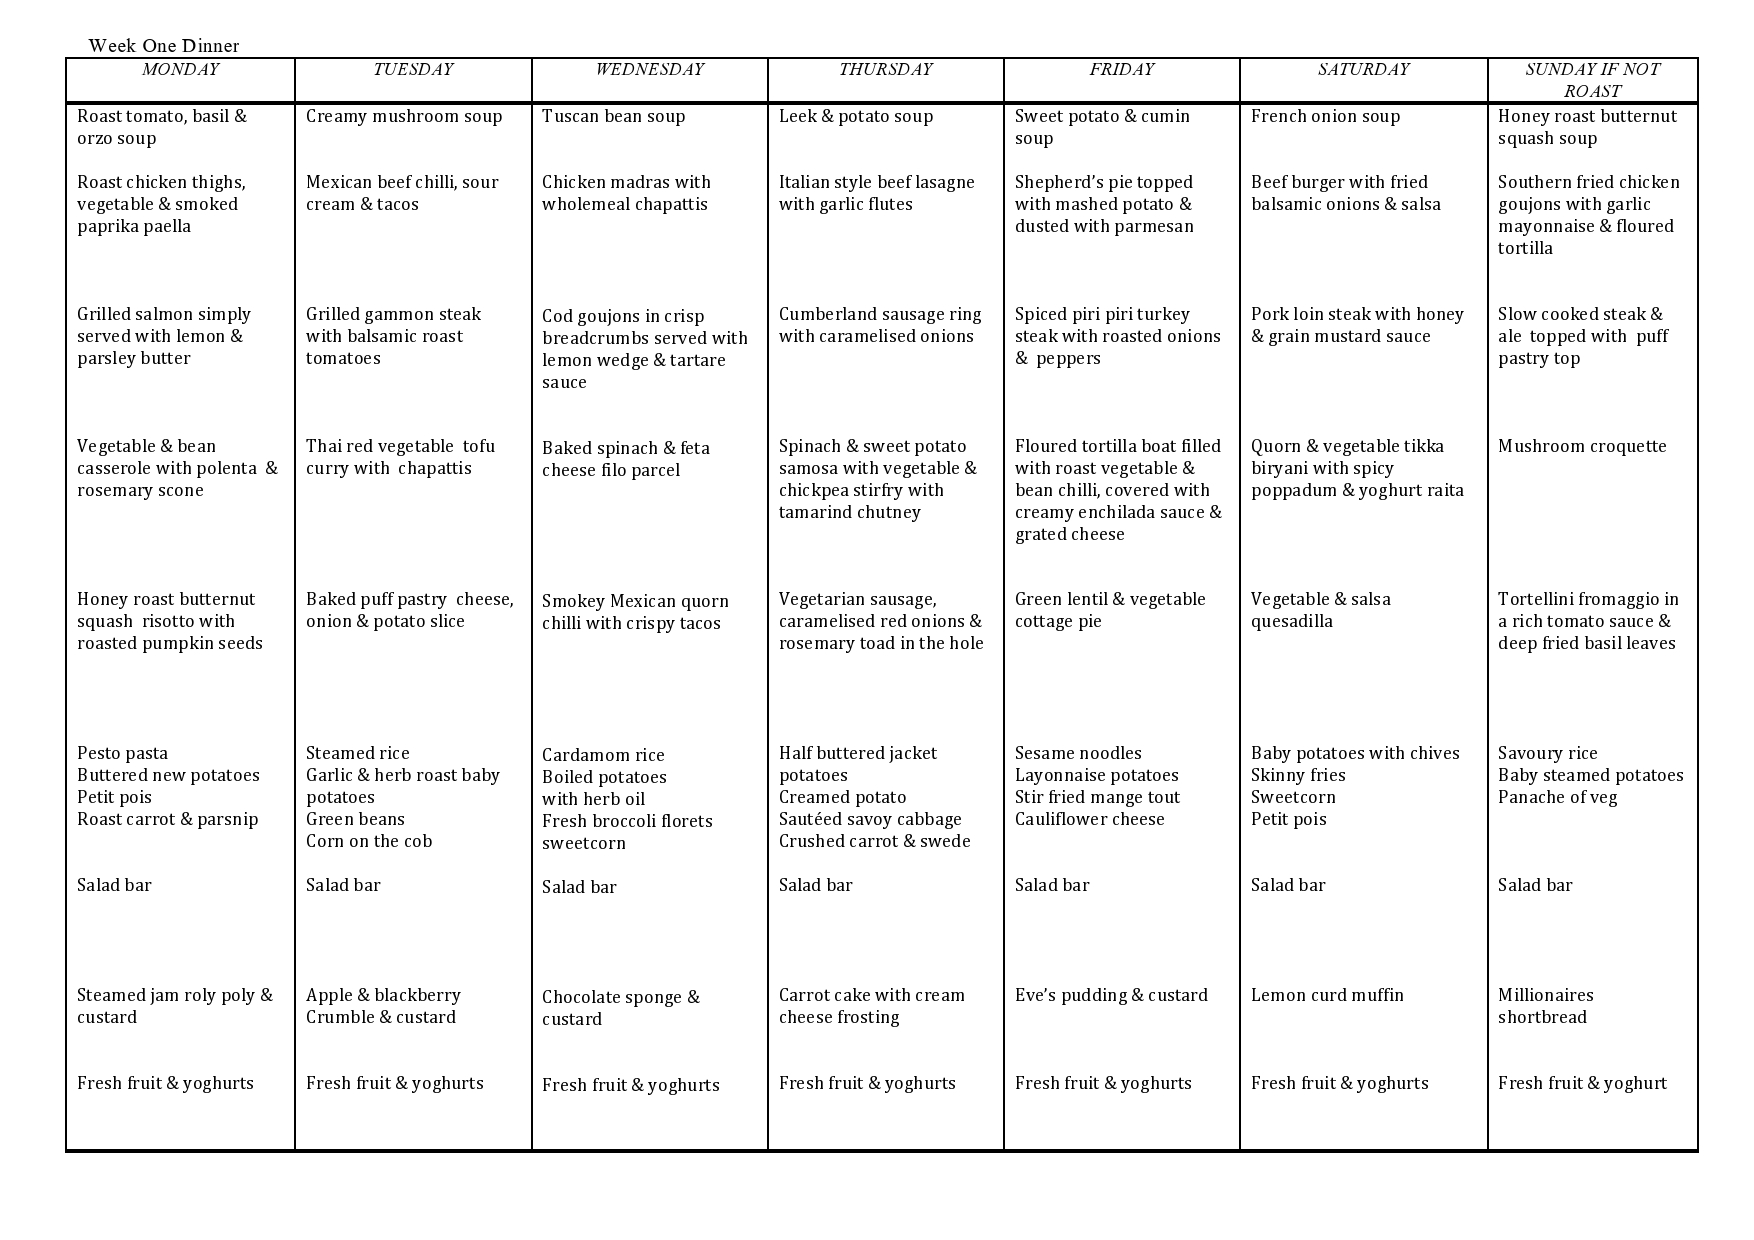
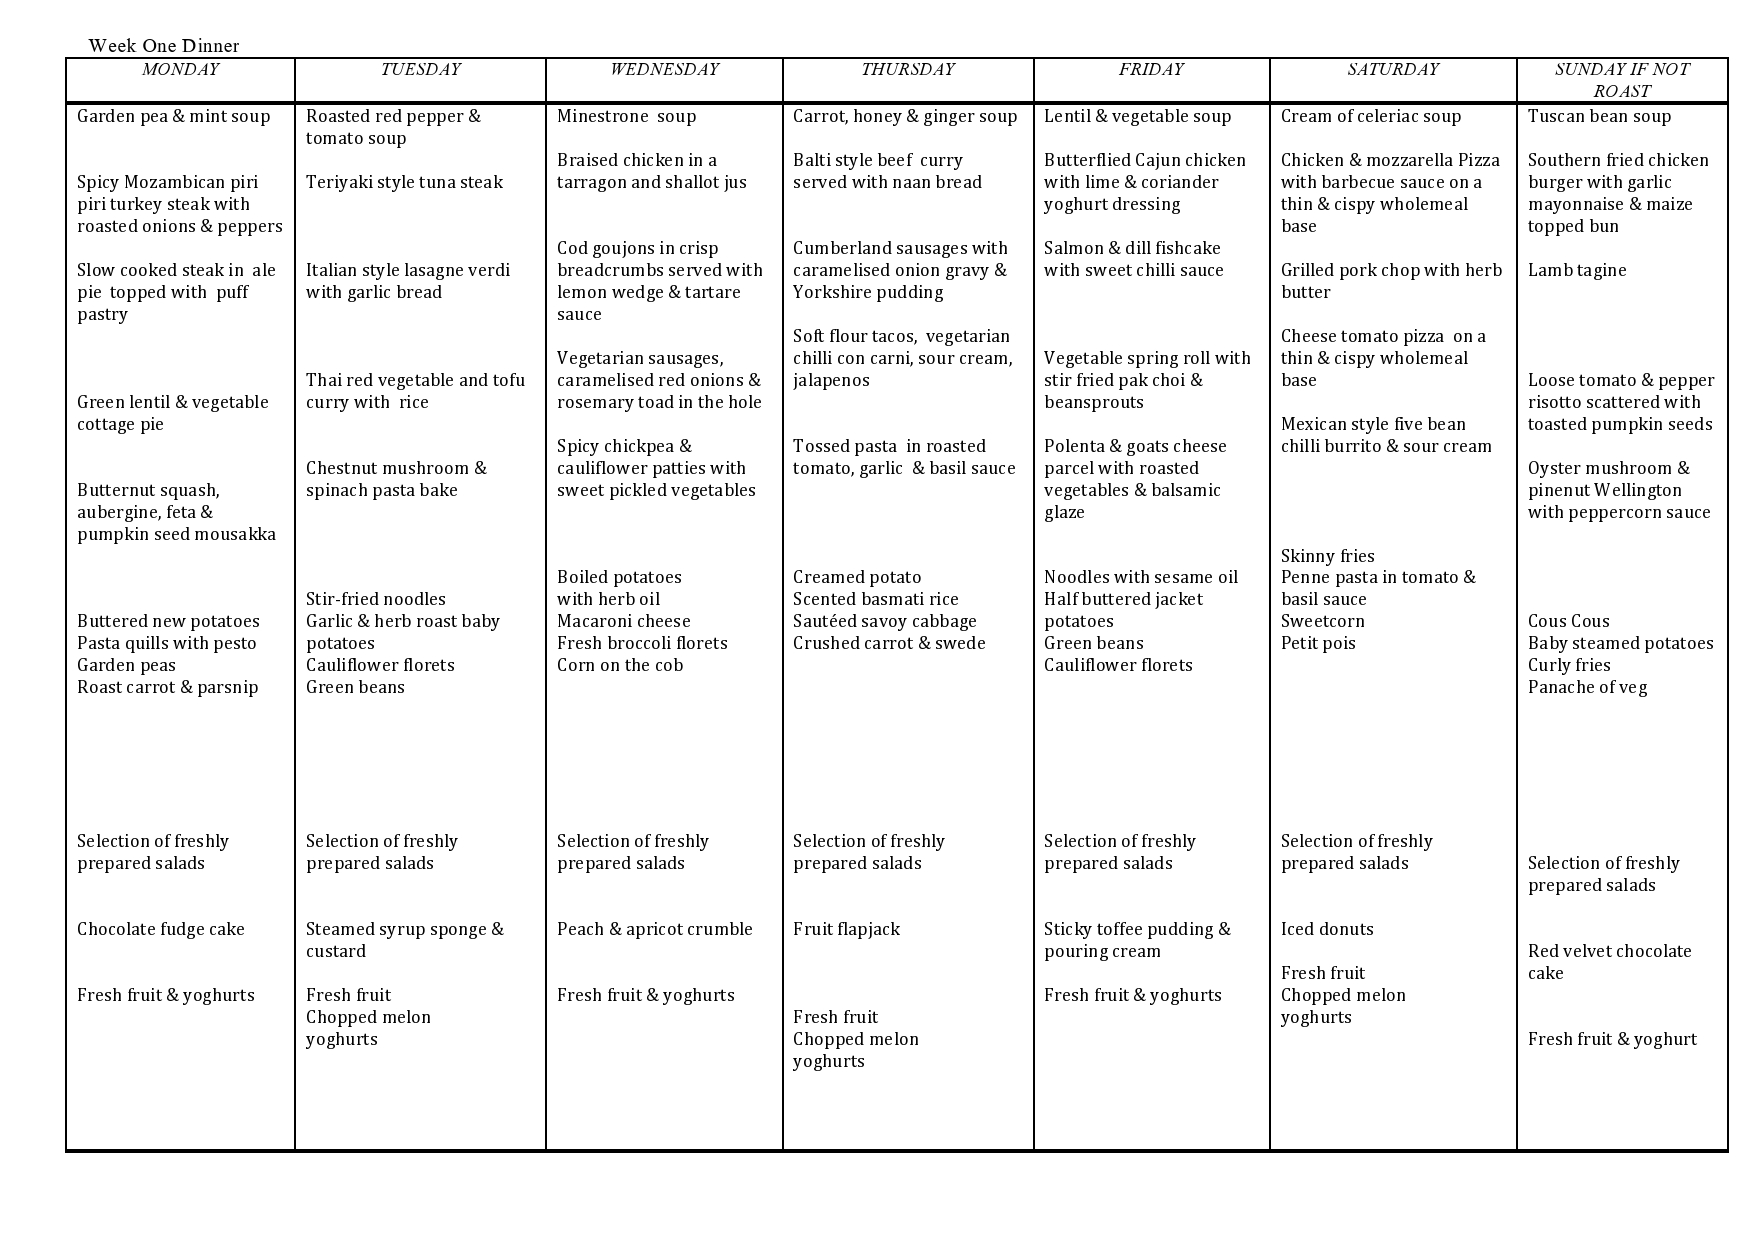
Update menus Epiphany 2017

diff --git a/routes/info.js b/routes/info.js
@@ -3,7 +3,7 @@ var router = express.Router();
 
 /* GET the menus page */
 router.get('/menus', function (req, res, next){
-	start = new Date(2016, 10-1, 3);
+	start = new Date(2017, 1-1, 16);
 	now = new Date();
 	week = 7*24*60*60*1000;
 	currWeek = (req.query.week) ? parseInt(req.query.week) : Math.floor((now-start)/week) + 1;
